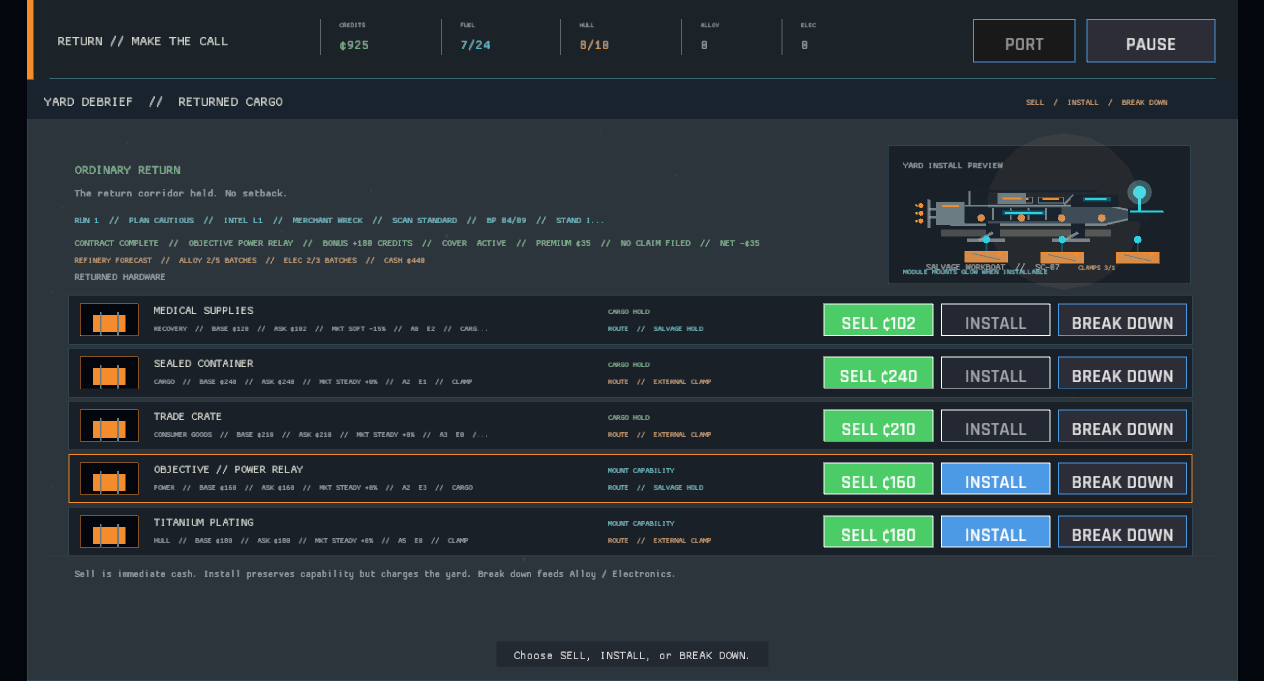
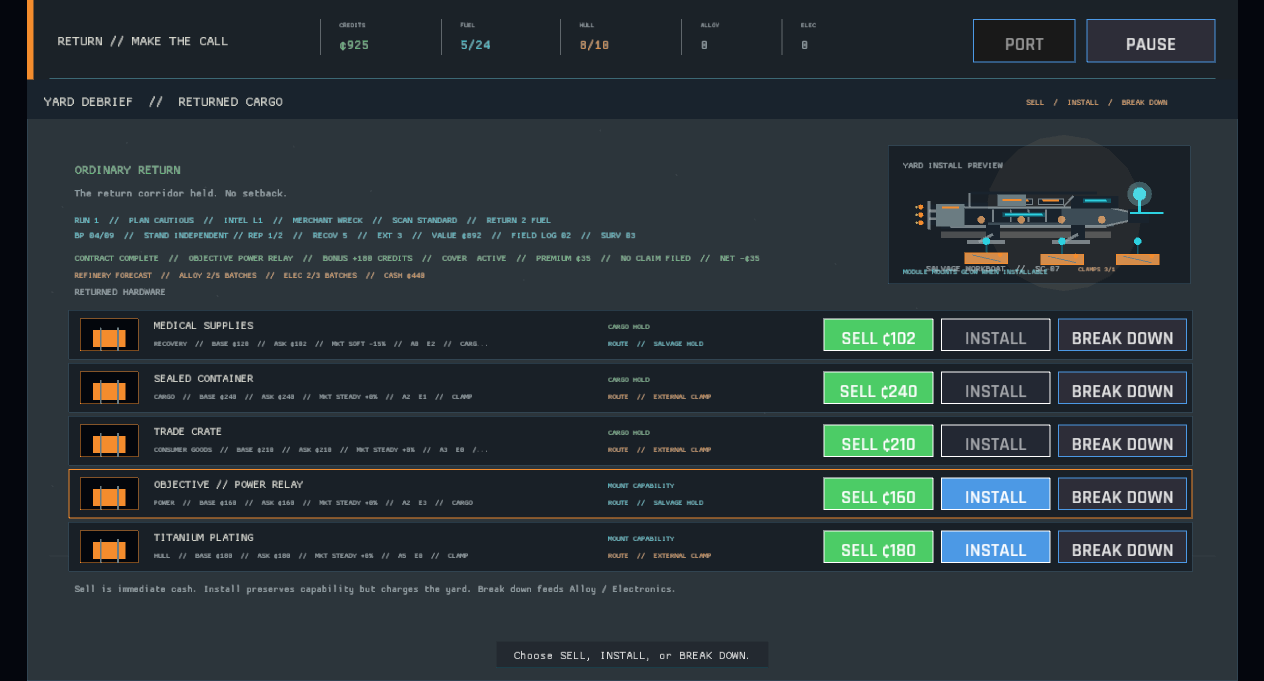
The yard report counts the burn home (debrief return-fuel readout)
The archive and return transit recorded the safe-return burn, but the first post-dock run summary omitted it. This pass carries the exact return fuel into the yard debrief while splitting the dense telemetry into two readable rows. Focused UI coverage and a refreshed results capture protect the readout.

Changed region(s): [[0.0617, 0.3084, 0.9565, 0.8943], [0.7097, 0.2775, 0.9256, 0.4009]]

diff --git a/src/ui/decision_panel.rs b/src/ui/decision_panel.rs
@@ -81,22 +81,34 @@ fn draw_debrief(ctx: &UiContext<'_>) {
                 &debrief_run_label(
                     ctx.session.voyage_log.len(),
                     &site_name.to_uppercase(),
+                    scan_profile,
+                    record.voyage_plan,
+                    record.reconnaissance_level,
+                    record.return_fuel,
+                ),
+                118,
+            ),
+            50.0,
+            236.0,
+            12.0,
+            visual_theme::cyan(),
+        );
+        draw_text(
+            clipped(
+                &debrief_memory_label(
+                    unlocked_blueprints,
+                    total_blueprints,
+                    &standing_progress,
                     record.recovered_count,
                     record.external_load,
                     record.recovered_value,
                     log_count,
                     survey_count,
-                    scan_profile,
-                    record.voyage_plan,
-                    record.reconnaissance_level,
-                    unlocked_blueprints,
-                    total_blueprints,
-                    &standing_progress,
                 ),
-                104,
+                118,
             ),
             50.0,
-            236.0,
+            252.0,
             12.0,
             visual_theme::cyan(),
         );
@@ -156,7 +168,7 @@ fn draw_debrief(ctx: &UiContext<'_>) {
                 || contract_label.clone(),
                 |record| format!("{contract_label}  //  {}", insurance_debrief_label(record)),
             );
-            draw_text(contract_readout, 50.0, 260.0, 12.0, contract_color);
+            draw_text(contract_readout, 50.0, 276.0, 12.0, contract_color);
         }
     }
 }
@@ -193,25 +205,34 @@ fn insurance_balance_label(premium: i64, payout: i64) -> String {
 fn debrief_run_label(
     run_number: usize,
     site_name: &str,
-    recovered_count: u32,
-    external_load: u32,
-    recovered_value: i64,
-    log_count: usize,
-    survey_count: usize,
     scan_profile: WorkspaceScanProfile,
     voyage_plan: crate::engine::VoyagePlan,
     reconnaissance_level: u8,
-    unlocked_blueprints: usize,
-    total_blueprints: usize,
-    standing_progress: &str,
+    return_fuel: i32,
 ) -> String {
     format!(
-        "RUN {}  //  PLAN {}  //  {}  //  {}  //  SCAN {}  //  BP {:02}/{:02}  //  {}  //  RECOV {}  //  EXT {}  //  VALUE ¢{}  //  FIELD LOG {:02}  //  SURV {:02}",
+        "RUN {}  //  PLAN {}  //  {}  //  {}  //  SCAN {}  //  RETURN {} FUEL",
         run_number,
         voyage_plan.label(),
         debrief_intelligence_label(reconnaissance_level),
         site_name,
         scan_profile.short_label(),
+        return_fuel
+    )
+}
+
+fn debrief_memory_label(
+    unlocked_blueprints: usize,
+    total_blueprints: usize,
+    standing_progress: &str,
+    recovered_count: u32,
+    external_load: u32,
+    recovered_value: i64,
+    log_count: usize,
+    survey_count: usize,
+) -> String {
+    format!(
+        "BP {:02}/{:02}  //  {}  //  RECOV {}  //  EXT {}  //  VALUE ¢{}  //  FIELD LOG {:02}  //  SURV {:02}",
         unlocked_blueprints,
         total_blueprints,
         standing_progress,
@@ -302,14 +323,14 @@ fn draw_result_manifest(ctx: &UiContext<'_>, actions: &mut Vec<UiAction>) {
     draw_text(
         &refinery_forecast_label(ctx.session.economy, &ctx.session.returned, ctx.data),
         50.0,
-        278.0,
+        294.0,
         11.0,
         visual_theme::amber(),
     );
     draw_text(
         "RETURNED HARDWARE",
         50.0,
-        296.0,
+        312.0,
         13.0,
         visual_theme::text_dim(),
     );
@@ -320,7 +341,7 @@ fn draw_result_manifest(ctx: &UiContext<'_>, actions: &mut Vec<UiAction>) {
         .and_then(|site_id| ctx.data.sites.get(site_id))
         .and_then(|site| site.contract_target.as_deref());
     for (index, returned) in ctx.session.returned.iter().enumerate() {
-        let y = 312.0 + index as f32 * 56.0;
+        let y = 328.0 + index as f32 * 56.0;
         let Some(object) = ctx.data.salvage_objects.get(&returned.object_id) else {
             continue;
         };
@@ -336,7 +357,7 @@ fn draw_result_manifest(ctx: &UiContext<'_>, actions: &mut Vec<UiAction>) {
     draw_text(
         "Sell is immediate cash. Install preserves capability but charges the yard. Break down feeds Alloy / Electronics.",
         50.0,
-        610.0,
+        626.0,
         13.0,
         visual_theme::text_dim(),
     );

diff --git a/src/ui/decision_panel/tests.rs b/src/ui/decision_panel/tests.rs
@@ -5,24 +5,19 @@ fn debrief_run_label_keeps_survey_memory_visible() {
     let label = debrief_run_label(
         2,
         "MERCHANT WRECK",
-        1,
-        0,
-        280,
-        6,
-        3,
         WorkspaceScanProfile::Array,
         crate::engine::VoyagePlan::Standard,
         2,
-        5,
-        9,
-        "STAND TRUSTED SALVOR // REP 4/7",
+        2,
     );
+    let memory_label =
+        debrief_memory_label(5, 9, "STAND TRUSTED SALVOR // REP 4/7", 1, 0, 280, 6, 3);
     assert!(label.contains("MERCHANT WRECK  //  SCAN ARRAY"));
     assert!(label.contains("RUN 2  //  PLAN STANDARD  //  INTEL L2  //  MERCHANT WRECK"));
-    assert!(label.contains("SCAN ARRAY  //  BP 05/09"));
-    assert!(label.contains("BP 05/09  //  STAND TRUSTED SALVOR // REP 4/7"));
-    assert!(label.contains("STAND TRUSTED SALVOR // REP 4/7  //  RECOV 1"));
-    assert!(label.ends_with("FIELD LOG 06  //  SURV 03"));
+    assert!(label.ends_with("SCAN ARRAY  //  RETURN 2 FUEL"));
+    assert!(memory_label.starts_with("BP 05/09  //  STAND TRUSTED SALVOR // REP 4/7"));
+    assert!(memory_label.contains("STAND TRUSTED SALVOR // REP 4/7  //  RECOV 1"));
+    assert!(memory_label.ends_with("FIELD LOG 06  //  SURV 03"));
 }
 
 #[test]
